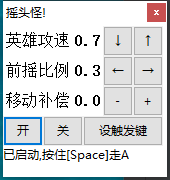
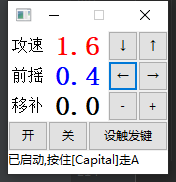
编译脚本

diff --git a/ZA_Min.py b/ZA_Min.py
@@ -114,54 +114,54 @@ class MainWindow(wx.Frame):
         elif event.Key == "Up":
             self.update_number(self.text_num1, True, 0.6, 3.0, 0.1)
             self.SetWindowStyle(wx.DEFAULT_FRAME_STYLE ^ (
-                    wx.MAXIMIZE_BOX | wx.SYSTEM_MENU) | wx.STAY_ON_TOP | wx.FRAME_TOOL_WINDOW)
+                    wx.MAXIMIZE_BOX | wx.SYSTEM_MENU) | wx.STAY_ON_TOP )
             self.SetWindowStyle(wx.DEFAULT_FRAME_STYLE ^ (
-                    wx.MAXIMIZE_BOX | wx.SYSTEM_MENU) | wx.FRAME_TOOL_WINDOW)
+                    wx.MAXIMIZE_BOX | wx.SYSTEM_MENU) )
             return False
         elif event.Key == "Down":
             self.update_number(self.text_num1, False, 0.6, 3.0, 0.1)
             self.SetWindowStyle(wx.DEFAULT_FRAME_STYLE ^ (
-                    wx.MAXIMIZE_BOX | wx.SYSTEM_MENU) | wx.STAY_ON_TOP | wx.FRAME_TOOL_WINDOW)
+                    wx.MAXIMIZE_BOX | wx.SYSTEM_MENU) | wx.STAY_ON_TOP )
             self.SetWindowStyle(wx.DEFAULT_FRAME_STYLE ^ (
-                    wx.MAXIMIZE_BOX | wx.SYSTEM_MENU) | wx.FRAME_TOOL_WINDOW)
+                    wx.MAXIMIZE_BOX | wx.SYSTEM_MENU) )
             return False
         elif event.Key == "Right":
             self.update_number(self.text_num2, True, 0, 1, 0.01)
             self.SetWindowStyle(wx.DEFAULT_FRAME_STYLE ^ (
-                    wx.MAXIMIZE_BOX | wx.SYSTEM_MENU) | wx.STAY_ON_TOP | wx.FRAME_TOOL_WINDOW)
+                    wx.MAXIMIZE_BOX | wx.SYSTEM_MENU) | wx.STAY_ON_TOP )
             self.SetWindowStyle(wx.DEFAULT_FRAME_STYLE ^ (
-                    wx.MAXIMIZE_BOX | wx.SYSTEM_MENU) | wx.FRAME_TOOL_WINDOW)
+                    wx.MAXIMIZE_BOX | wx.SYSTEM_MENU) )
             return False
         elif event.Key == "Left":
             self.update_number(self.text_num2, False, 0, 1, 0.01)
             self.SetWindowStyle(wx.DEFAULT_FRAME_STYLE ^ (
-                    wx.MAXIMIZE_BOX | wx.SYSTEM_MENU) | wx.STAY_ON_TOP | wx.FRAME_TOOL_WINDOW)
+                    wx.MAXIMIZE_BOX | wx.SYSTEM_MENU) | wx.STAY_ON_TOP )
             self.SetWindowStyle(wx.DEFAULT_FRAME_STYLE ^ (
-                    wx.MAXIMIZE_BOX | wx.SYSTEM_MENU) | wx.FRAME_TOOL_WINDOW)
+                    wx.MAXIMIZE_BOX | wx.SYSTEM_MENU) )
             return False
         elif event.Key == "Prior":
             self.isPause = False
             self.SetTransparent(255)
             self.SetWindowStyle(wx.DEFAULT_FRAME_STYLE ^ (
-                    wx.MAXIMIZE_BOX | wx.SYSTEM_MENU) | wx.STAY_ON_TOP | wx.FRAME_TOOL_WINDOW)
+                    wx.MAXIMIZE_BOX | wx.SYSTEM_MENU) | wx.STAY_ON_TOP )
             self.SetWindowStyle(wx.DEFAULT_FRAME_STYLE ^ (
-                    wx.MAXIMIZE_BOX | wx.SYSTEM_MENU) | wx.FRAME_TOOL_WINDOW)
+                    wx.MAXIMIZE_BOX | wx.SYSTEM_MENU) )
             return False
         elif event.Key == "Next":
             self.isPause = True
             self.SetTransparent(90)
             self.SetWindowStyle(wx.DEFAULT_FRAME_STYLE ^ (
-                    wx.MAXIMIZE_BOX | wx.SYSTEM_MENU) | wx.STAY_ON_TOP | wx.FRAME_TOOL_WINDOW)
+                    wx.MAXIMIZE_BOX | wx.SYSTEM_MENU) | wx.STAY_ON_TOP )
             self.SetWindowStyle(wx.DEFAULT_FRAME_STYLE ^ (
-                    wx.MAXIMIZE_BOX | wx.SYSTEM_MENU) | wx.FRAME_TOOL_WINDOW)
+                    wx.MAXIMIZE_BOX | wx.SYSTEM_MENU) )
             return False
         elif event.Key == "Insert":
             self.start_setting = True
             self.currentKey = ""
             self.SetWindowStyle(wx.DEFAULT_FRAME_STYLE ^ (
-                    wx.MAXIMIZE_BOX | wx.SYSTEM_MENU) | wx.STAY_ON_TOP | wx.FRAME_TOOL_WINDOW)
+                    wx.MAXIMIZE_BOX | wx.SYSTEM_MENU) | wx.STAY_ON_TOP )
             self.SetWindowStyle(wx.DEFAULT_FRAME_STYLE ^ (
-                    wx.MAXIMIZE_BOX | wx.SYSTEM_MENU) | wx.FRAME_TOOL_WINDOW)
+                    wx.MAXIMIZE_BOX | wx.SYSTEM_MENU) )
             return False
         elif self.start_setting:
             self.currentKey = event.Key
@@ -207,8 +207,8 @@ class MainWindow(wx.Frame):
 
     def __init__(self, parent, title):
         wx.Frame.__init__(self, parent, title=title, pos=(500, 500), style=wx.DEFAULT_FRAME_STYLE ^ (
-                wx.MAXIMIZE_BOX | wx.SYSTEM_MENU) | wx.FRAME_TOOL_WINDOW,
-                          size=(55, 75))
+                wx.MAXIMIZE_BOX | wx.SYSTEM_MENU) ,
+                          size=(100, 120))
                           # size=(70, 70))
 
         self.SetBackgroundColour("#ffffff")
@@ -219,28 +219,19 @@ class MainWindow(wx.Frame):
         self.sizer = wx.BoxSizer(wx.VERTICAL)
         self.sizer1 = wx.BoxSizer(wx.HORIZONTAL)
         self.sizer2 = wx.BoxSizer(wx.HORIZONTAL)
-        self.sizer3 = wx.BoxSizer(wx.HORIZONTAL)
-        self.sizer4 = wx.BoxSizer(wx.HORIZONTAL)
-        self.sizer5 = wx.BoxSizer(wx.HORIZONTAL)
 
         self.text_num1 = wx.StaticText(self, name="aa", label=str(self.GongSu), size=(-1, -1), style=wx.ALIGN_CENTER)
-
-        self.text_num1.SetFont(wx.Font(12, wx.SWISS, wx.NORMAL, wx.FONTWEIGHT_BOLD))
-
+        self.text_num1.SetFont(wx.Font(30, wx.SWISS, wx.NORMAL, wx.FONTWEIGHT_BOLD))
         self.text_num1.SetForegroundColour('#FF0000')
         self.sizer1.Add(self.text_num1, flag=wx.ALIGN_CENTER)
 
         self.text_num2 = wx.StaticText(self, name="aa", label=str(self.QianYao), size=(-1, -1), style=wx.ALIGN_CENTER)
-
-        self.text_num2.SetFont(wx.Font(12, wx.SWISS, wx.NORMAL, wx.FONTWEIGHT_BOLD))
-
+        self.text_num2.SetFont(wx.Font(30, wx.SWISS, wx.NORMAL, wx.FONTWEIGHT_BOLD))
         self.text_num2.SetForegroundColour('#0000FF')
-
         self.sizer2.Add(self.text_num2, flag=wx.ALIGN_CENTER)
 
         self.sizer.Add(self.sizer1)
         self.sizer.Add(self.sizer2)
-        self.sizer.Add(self.sizer3)
 
         self.SetSizer(self.sizer)
         self.Show(True)

diff --git a/ZA_Max.py b/ZA_Max.py
@@ -195,8 +195,8 @@ class MainWindow(wx.Frame):
                 self.click(0x2c, self.qy)
                 self.click(0x2d, self.hy)
                 ys = time.time() - process_time - self.dc - self.YDBC
-                self.message_text.Label = (str(round(self.dc, 3)) + '/' + str(round(self.qy, 3)) + '/' +
-                                           str(round(self.hy, 3)) + '/' + str(round(ys, 3)))
+                self.message_text.Label = (str(round(self.dc, 3)) + 'A/' + str(round(self.qy, 3)) + 'Z/' +
+                                           str(round(self.hy, 3)) + 'X/' + str(round(ys, 3)))
             else:
                 time.sleep(0.01)
 
